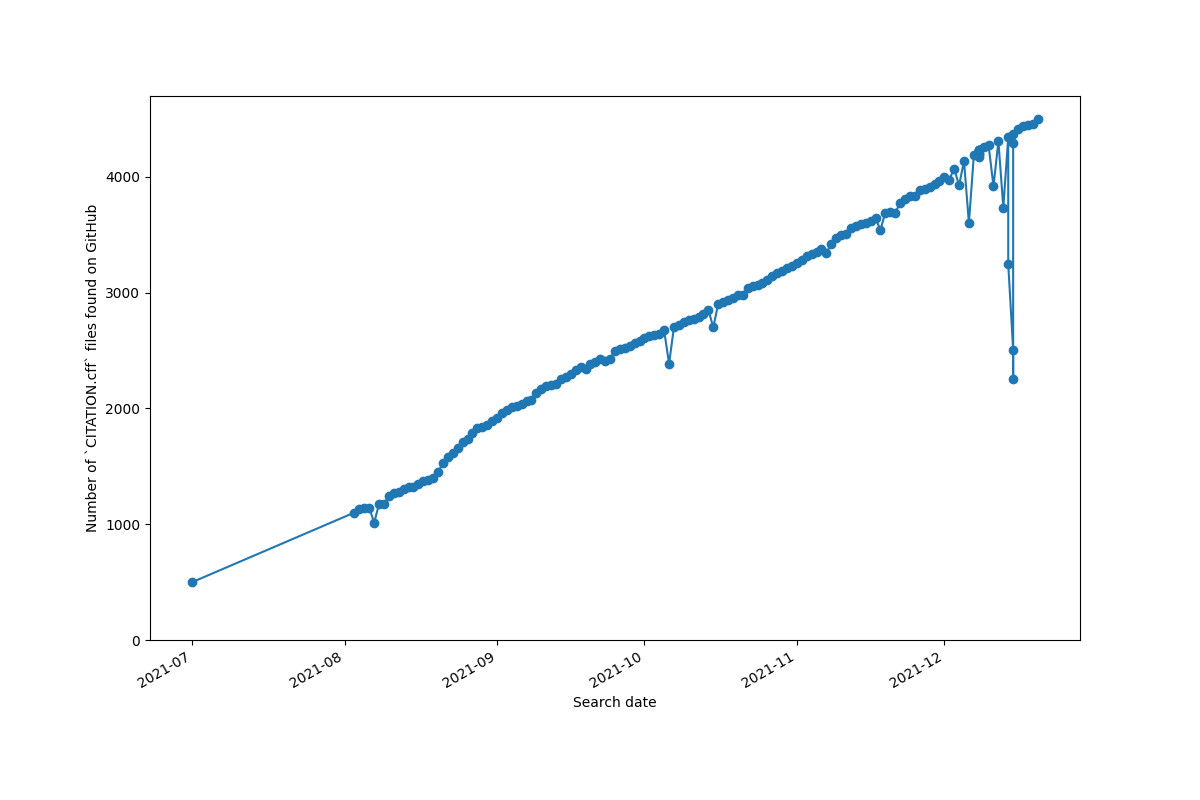
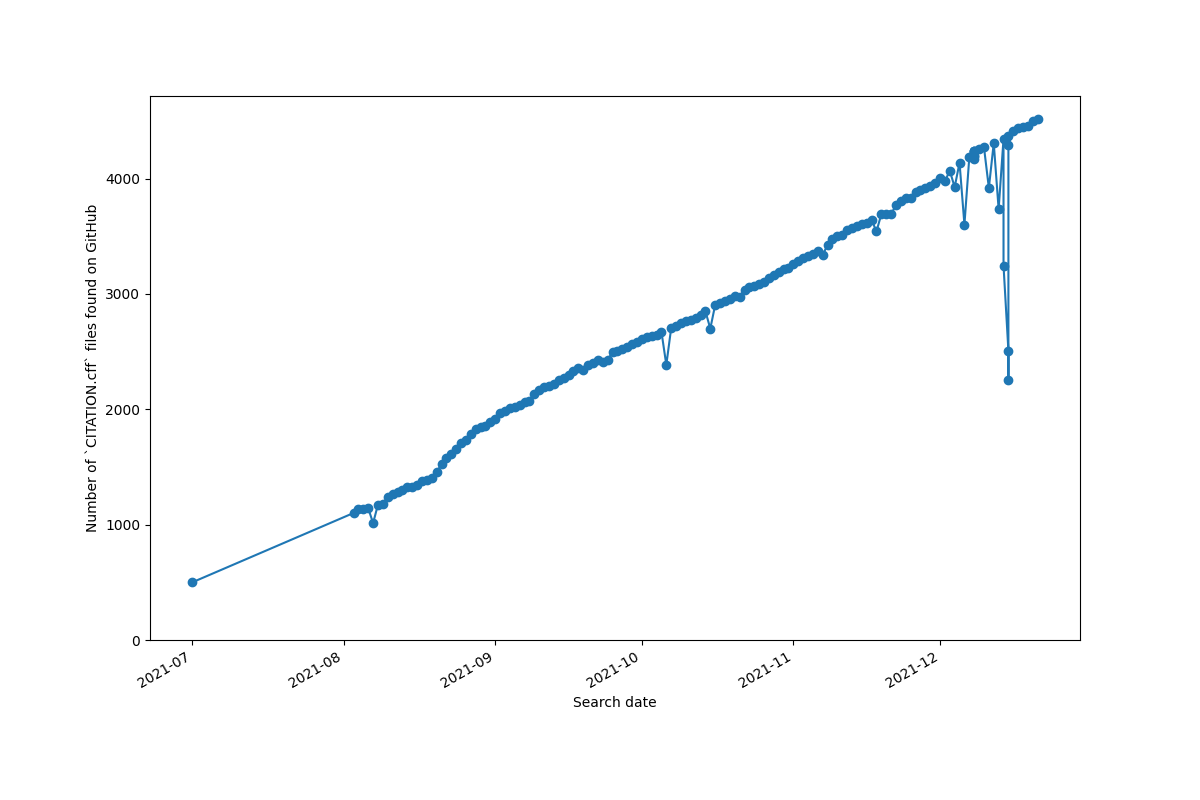
Update data

diff --git a/README.md b/README.md
@@ -7,7 +7,7 @@ SPDX-License-Identifier: CC-BY-4.0
 
 Tracks `CITATION.cff` files across public repositories on GitHub.
 
-## Current count: 4498
+## Current count: 4515
 
 ![A graph showing a timeline of file counts for CITATION.cff files across GitHub retrieved via GitHub search API.](cff_counts.png)
 
